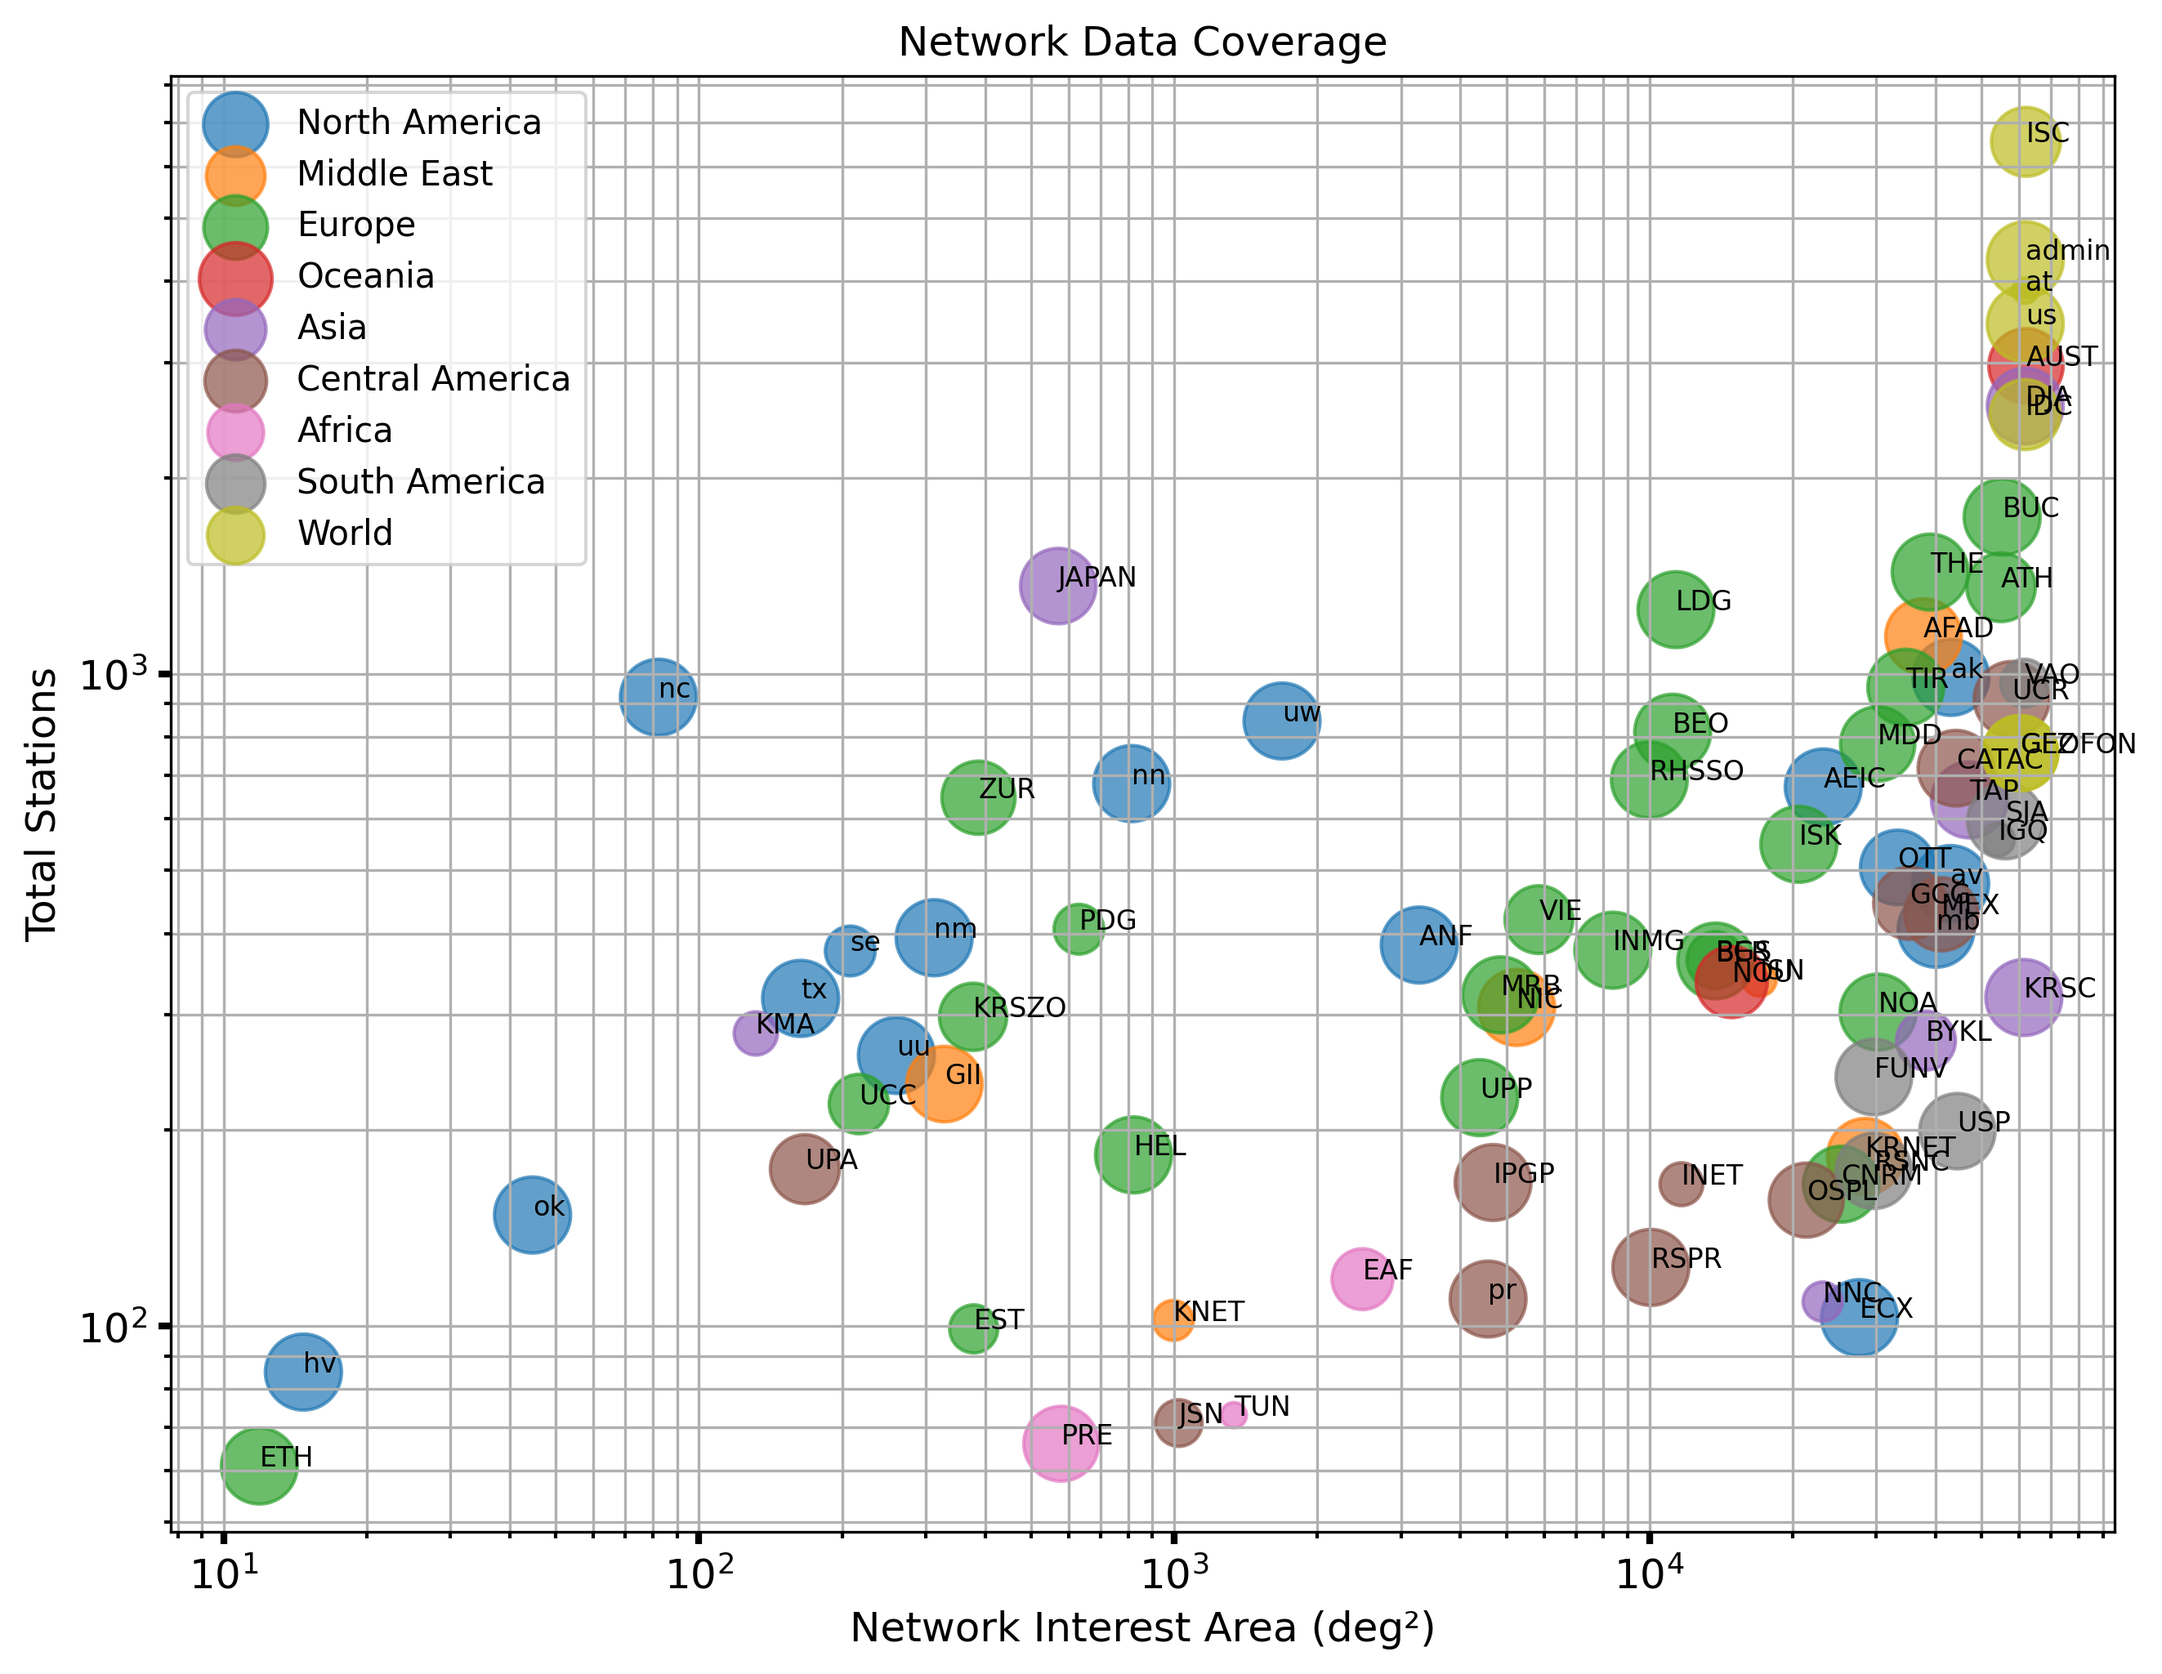
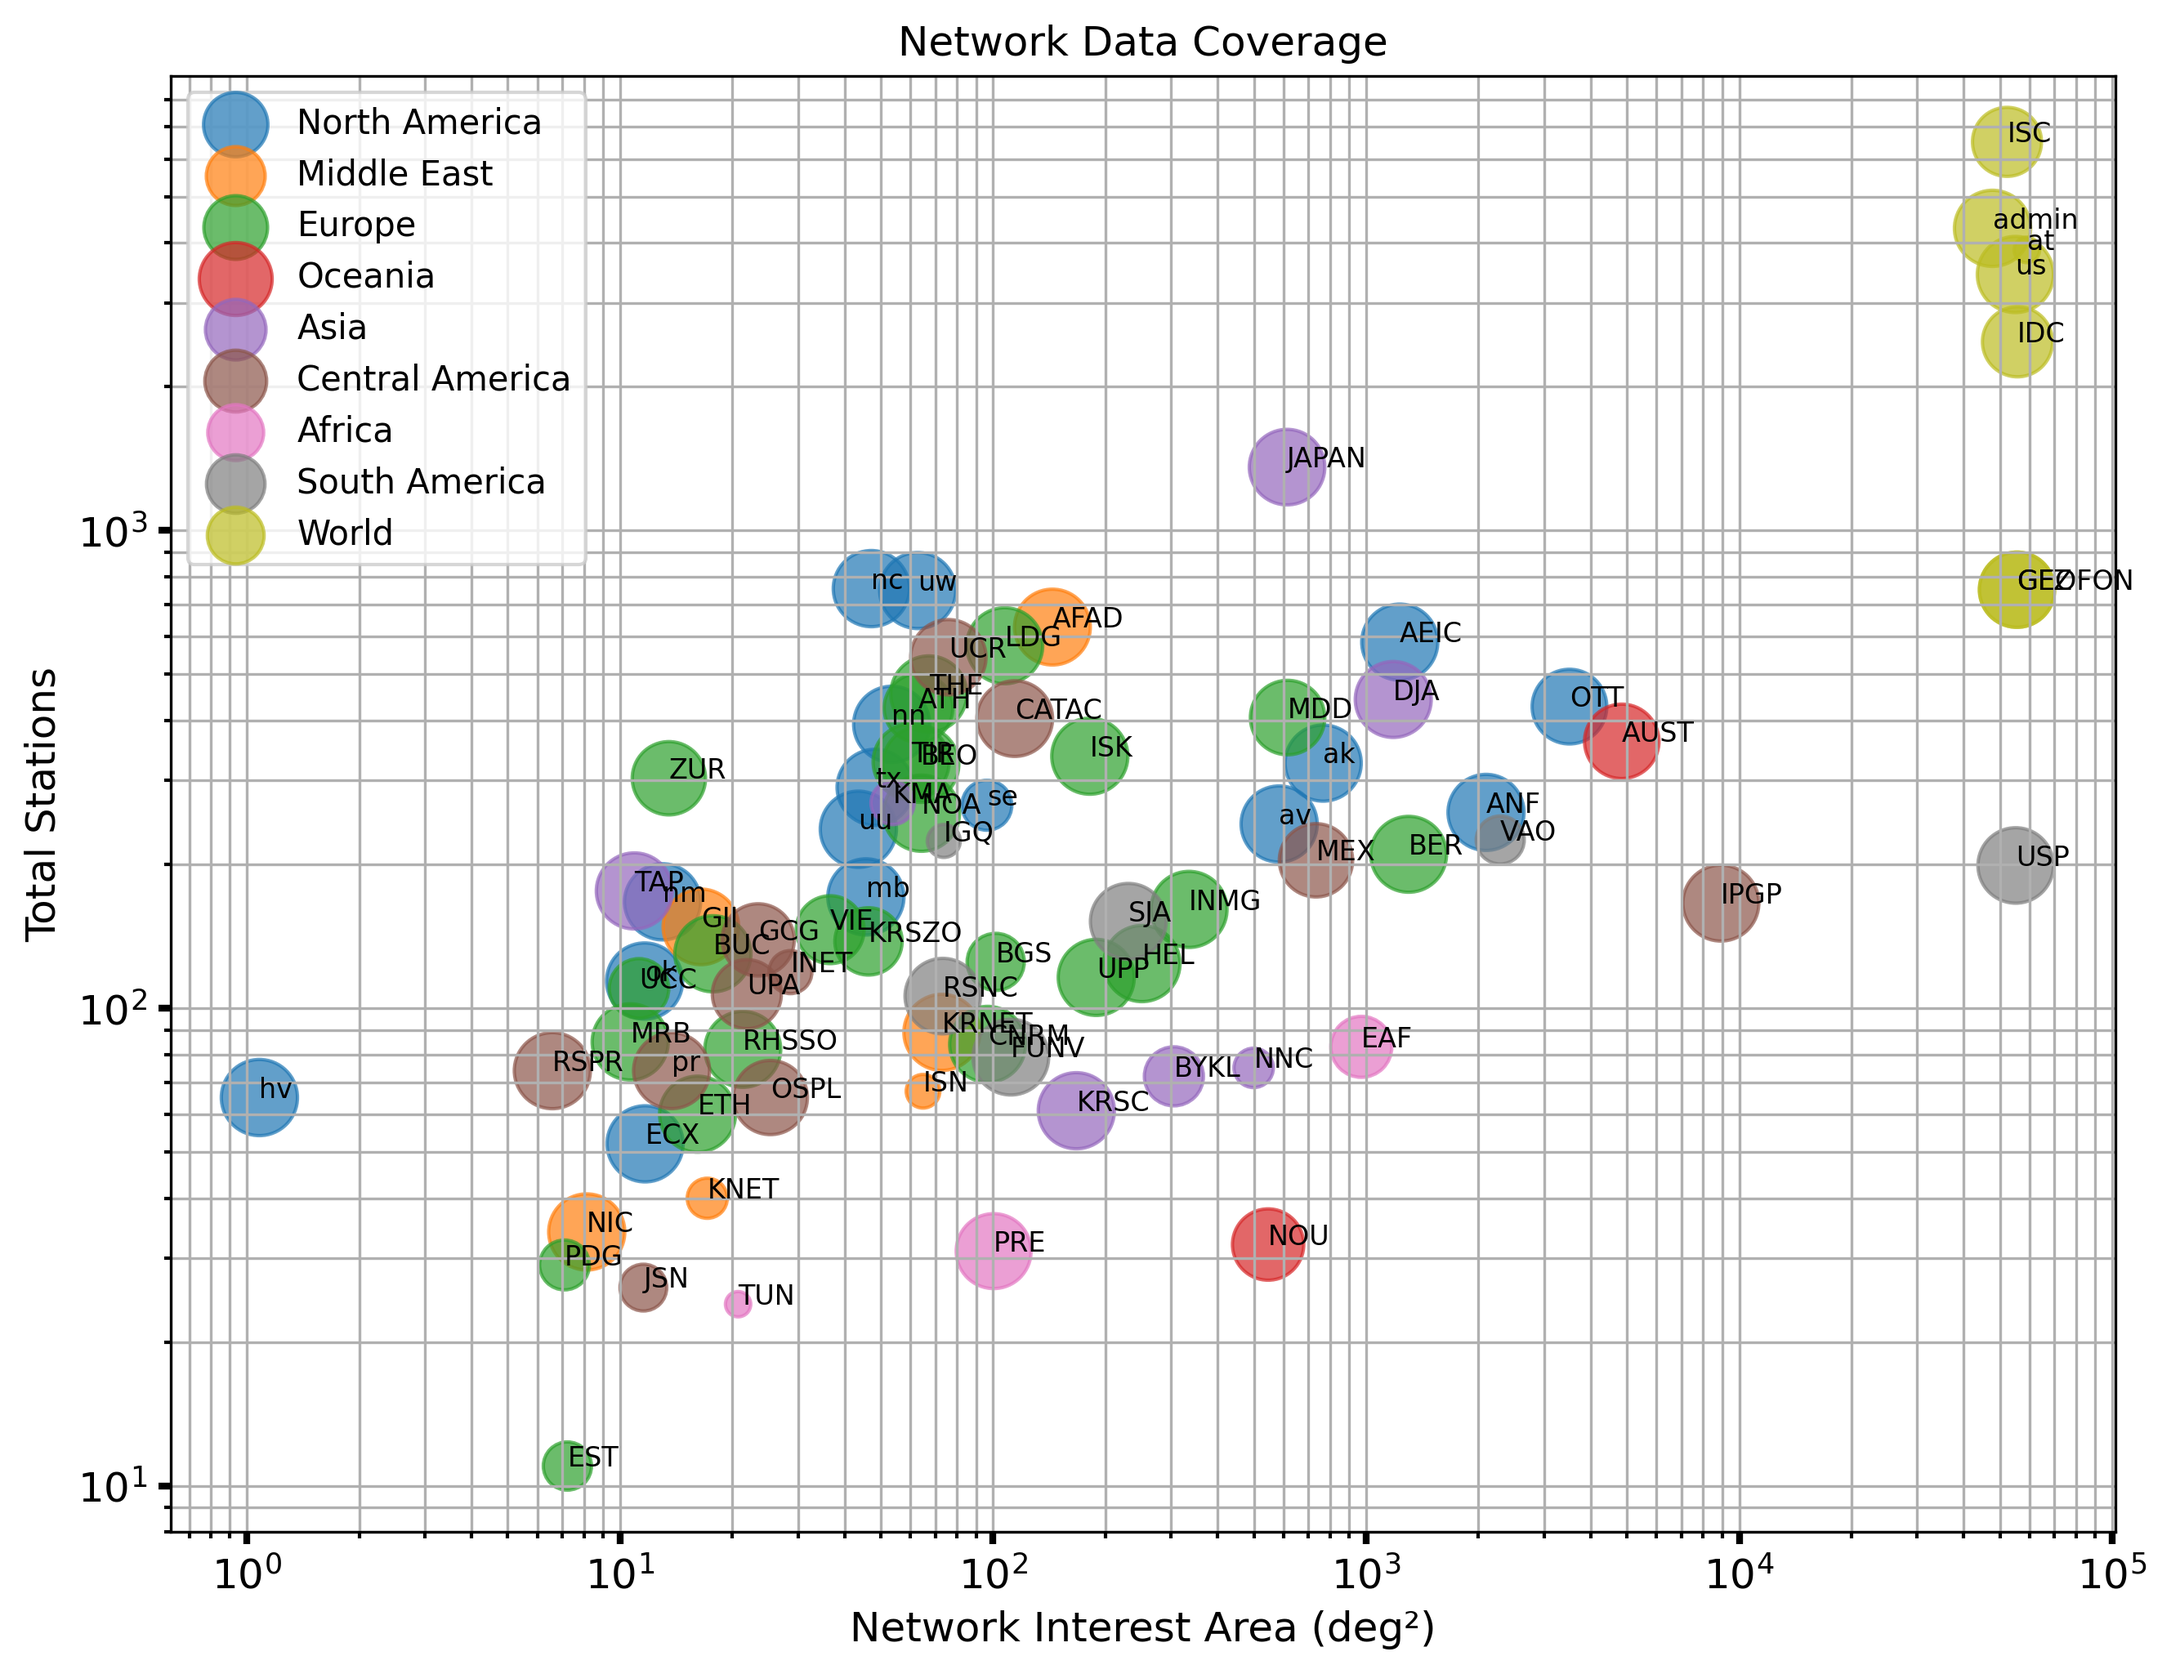
Density figure: region of each network's seismicity

Changed region(s): [[0.031, 0.0, 0.9917, 0.9995]]

diff --git a/utdquake/core/utdquake.py b/utdquake/core/utdquake.py
@@ -58,7 +58,7 @@ from .load import resolve_network_paths
 from .config import get_hf_entry, get_root, get_utdq_paths
 from ..qc.travel_time import TravelTimeModel
 from .utils import merge_network_stats, renamed_kwarg
-from ..utils.utils import get_network_summary, human_format, phase_family
+from ..utils.utils import compute_region, get_network_summary, human_format, phase_family
 from ..utils.plot import (plot_overview,
                           plot_stats,
                           plot_pick_histograms,
@@ -398,50 +398,44 @@ class Dataset:
         Parameters:
         ----------
         density_in_region : bool, optional
-            If True, calculate station density only within the network's defined region. Default is True.
+            If True (default), each network's region is the region of most of its seismicity
+            (95% of its events, with a 20% margin) and only the distinct stations located inside
+            it are counted. If
+            False, the network table's station counts and station-coverage bounds are used.
         savepath : str or None
             Path to save the figure. If None, figure is not saved.
         show : bool
             Whether to display the figure.
         """
         if density_in_region:
-            print("Calculating station density within network regions...")
+            # Region of each network = the region of most of its seismicity: 95% of its
+            # events in longitude and latitude (a few distant events do not stretch it, many
+            # do), 20% padding, across the antimeridian when tighter. Stations: distinct
+            # (network, station) located inside it. A box around all located stations would
+            # include the far (teleseismic) stations that recorded the larger events.
             networks = self.networks.copy()
             stations = self.stations.copy()
+            events = self.events
 
-            confirmed_mask = stations["confirmed"] == True
-            only_calculated_mask = (stations["confirmed"] == False) & (stations["available"] == True)
-            stations = stations[confirmed_mask | only_calculated_mask]
-            stations["latitude"] = stations["confirmed_latitude"].combine_first(stations["calculated_latitude"])
-            stations["longitude"] = stations["confirmed_longitude"].combine_first(stations["calculated_longitude"])
+            stations["latitude"] = stations["confirmed_latitude"].astype(float).fillna(
+                stations["calculated_latitude"].astype(float))
+            stations["longitude"] = stations["confirmed_longitude"].astype(float).fillna(
+                stations["calculated_longitude"].astype(float))
+            stations = stations.dropna(subset=["latitude", "longitude"])
 
-            networks_reg = networks[["utdq_net","approx_lon_min",	"approx_lon_max",	"approx_lat_min",	"approx_lat_max"]]
-            n_stations = pd.merge(stations, networks_reg, on="utdq_net", how="left")
-            n_stations = n_stations[(n_stations["latitude"] >= n_stations["approx_lat_min"]) & (n_stations["latitude"] <= n_stations["approx_lat_max"])]
-            n_stations = n_stations[(n_stations["longitude"] >= n_stations["approx_lon_min"]) & (n_stations["longitude"] <= n_stations["approx_lon_max"])]
-            counts = n_stations["utdq_net"].value_counts().to_dict()
-            networks["total_stations"] = networks.apply(lambda row: counts.get(row["utdq_net"], np.nan), axis=1)
-        
-            # #in case of polygon area / no need for now, but leaving here for future reference
-            # gdf = gpd.GeoDataFrame(
-            #     n_stations,
-            #     geometry=gpd.points_from_xy(n_stations.longitude, n_stations.latitude),
-            #     crs="EPSG:4326"
-            # )
-            # def area_deg2(group):
-            #     if len(group) < 3:
-            #         return 0.0
-            #     hull = group.geometry.union_all().convex_hull
-            #     return hull.area  # degree^2
-
-            # area_per_network = (
-            #     gdf.groupby("network")
-            #     .apply(area_deg2)
-            #     .reset_index(name="area_deg2")
-            #         )
-            # area_per_network = area_per_network.set_index("network")["area_deg2"].to_dict()
-            # networks["area_deg2"] = networks.apply(lambda row: area_per_network.get(row["network"], np.nan), axis=1)
-        
+            for i, row in networks.iterrows():
+                ev = events[events["utdq_net"] == row["utdq_net"]]
+                st = stations[stations["utdq_net"] == row["utdq_net"]]
+                if ev[["latitude", "longitude"]].dropna().empty:
+                    networks.loc[i, "total_stations"] = np.nan
+                    continue
+                lon_min, lon_max, lat_min, lat_max = compute_region(ev, st, padding=0.2, coverage=0.95)
+                lon = st["longitude"] % 360 if lon_max > 180 else st["longitude"]
+                inside = (lon >= lon_min) & (lon <= lon_max) & \
+                         (st["latitude"] >= lat_min) & (st["latitude"] <= lat_max)
+                networks.loc[i, ["approx_lon_min", "approx_lon_max", "approx_lat_min", "approx_lat_max"]] = \
+                    [lon_min, lon_max, lat_min, lat_max]
+                networks.loc[i, "total_stations"] = len(st.loc[inside, ["network", "station"]].drop_duplicates())
         else:
             networks = self.networks.copy()
 

diff --git a/utdquake/utils/utils.py b/utdquake/utils/utils.py
@@ -28,6 +28,7 @@ def compute_region(
     global_region: Optional[Tuple[float, float, float, float]] = None,
     how: str = "events",
     rm_outliers: bool = False,
+    coverage: Optional[float] = None,
 ) -> Tuple[float, float, float, float]:
     """
     Compute a bounding box for plotting events and stations.
@@ -48,6 +49,10 @@ def compute_region(
         Which data to use: 'events', 'stations', or 'both' (default 'events').
     rm_outliers : bool, optional
         If True, remove extreme outliers beyond 6 std deviations.
+    coverage : float, optional
+        Keep the central ``coverage`` fraction of the points in longitude and
+        in latitude (e.g. 0.95: 2.5th to 97.5th percentiles), so that a few
+        distant points do not stretch the region while many of them do.
 
     Returns
     -------
@@ -92,6 +97,12 @@ def compute_region(
     lons360 = lons % 360
     if np.ptp(lons360) < np.ptp(lons) and np.ptp(lons360) < 180:
         lons = lons360
+
+    # --- Keep the central part of the points if requested ---
+    if coverage is not None:
+        q = (1 - coverage) / 2
+        lons = lons[(lons >= lons.quantile(q)) & (lons <= lons.quantile(1 - q))]
+        lats = lats[(lats >= lats.quantile(q)) & (lats <= lats.quantile(1 - q))]
 
     # --- Remove extreme outliers if requested ---
     if rm_outliers:
